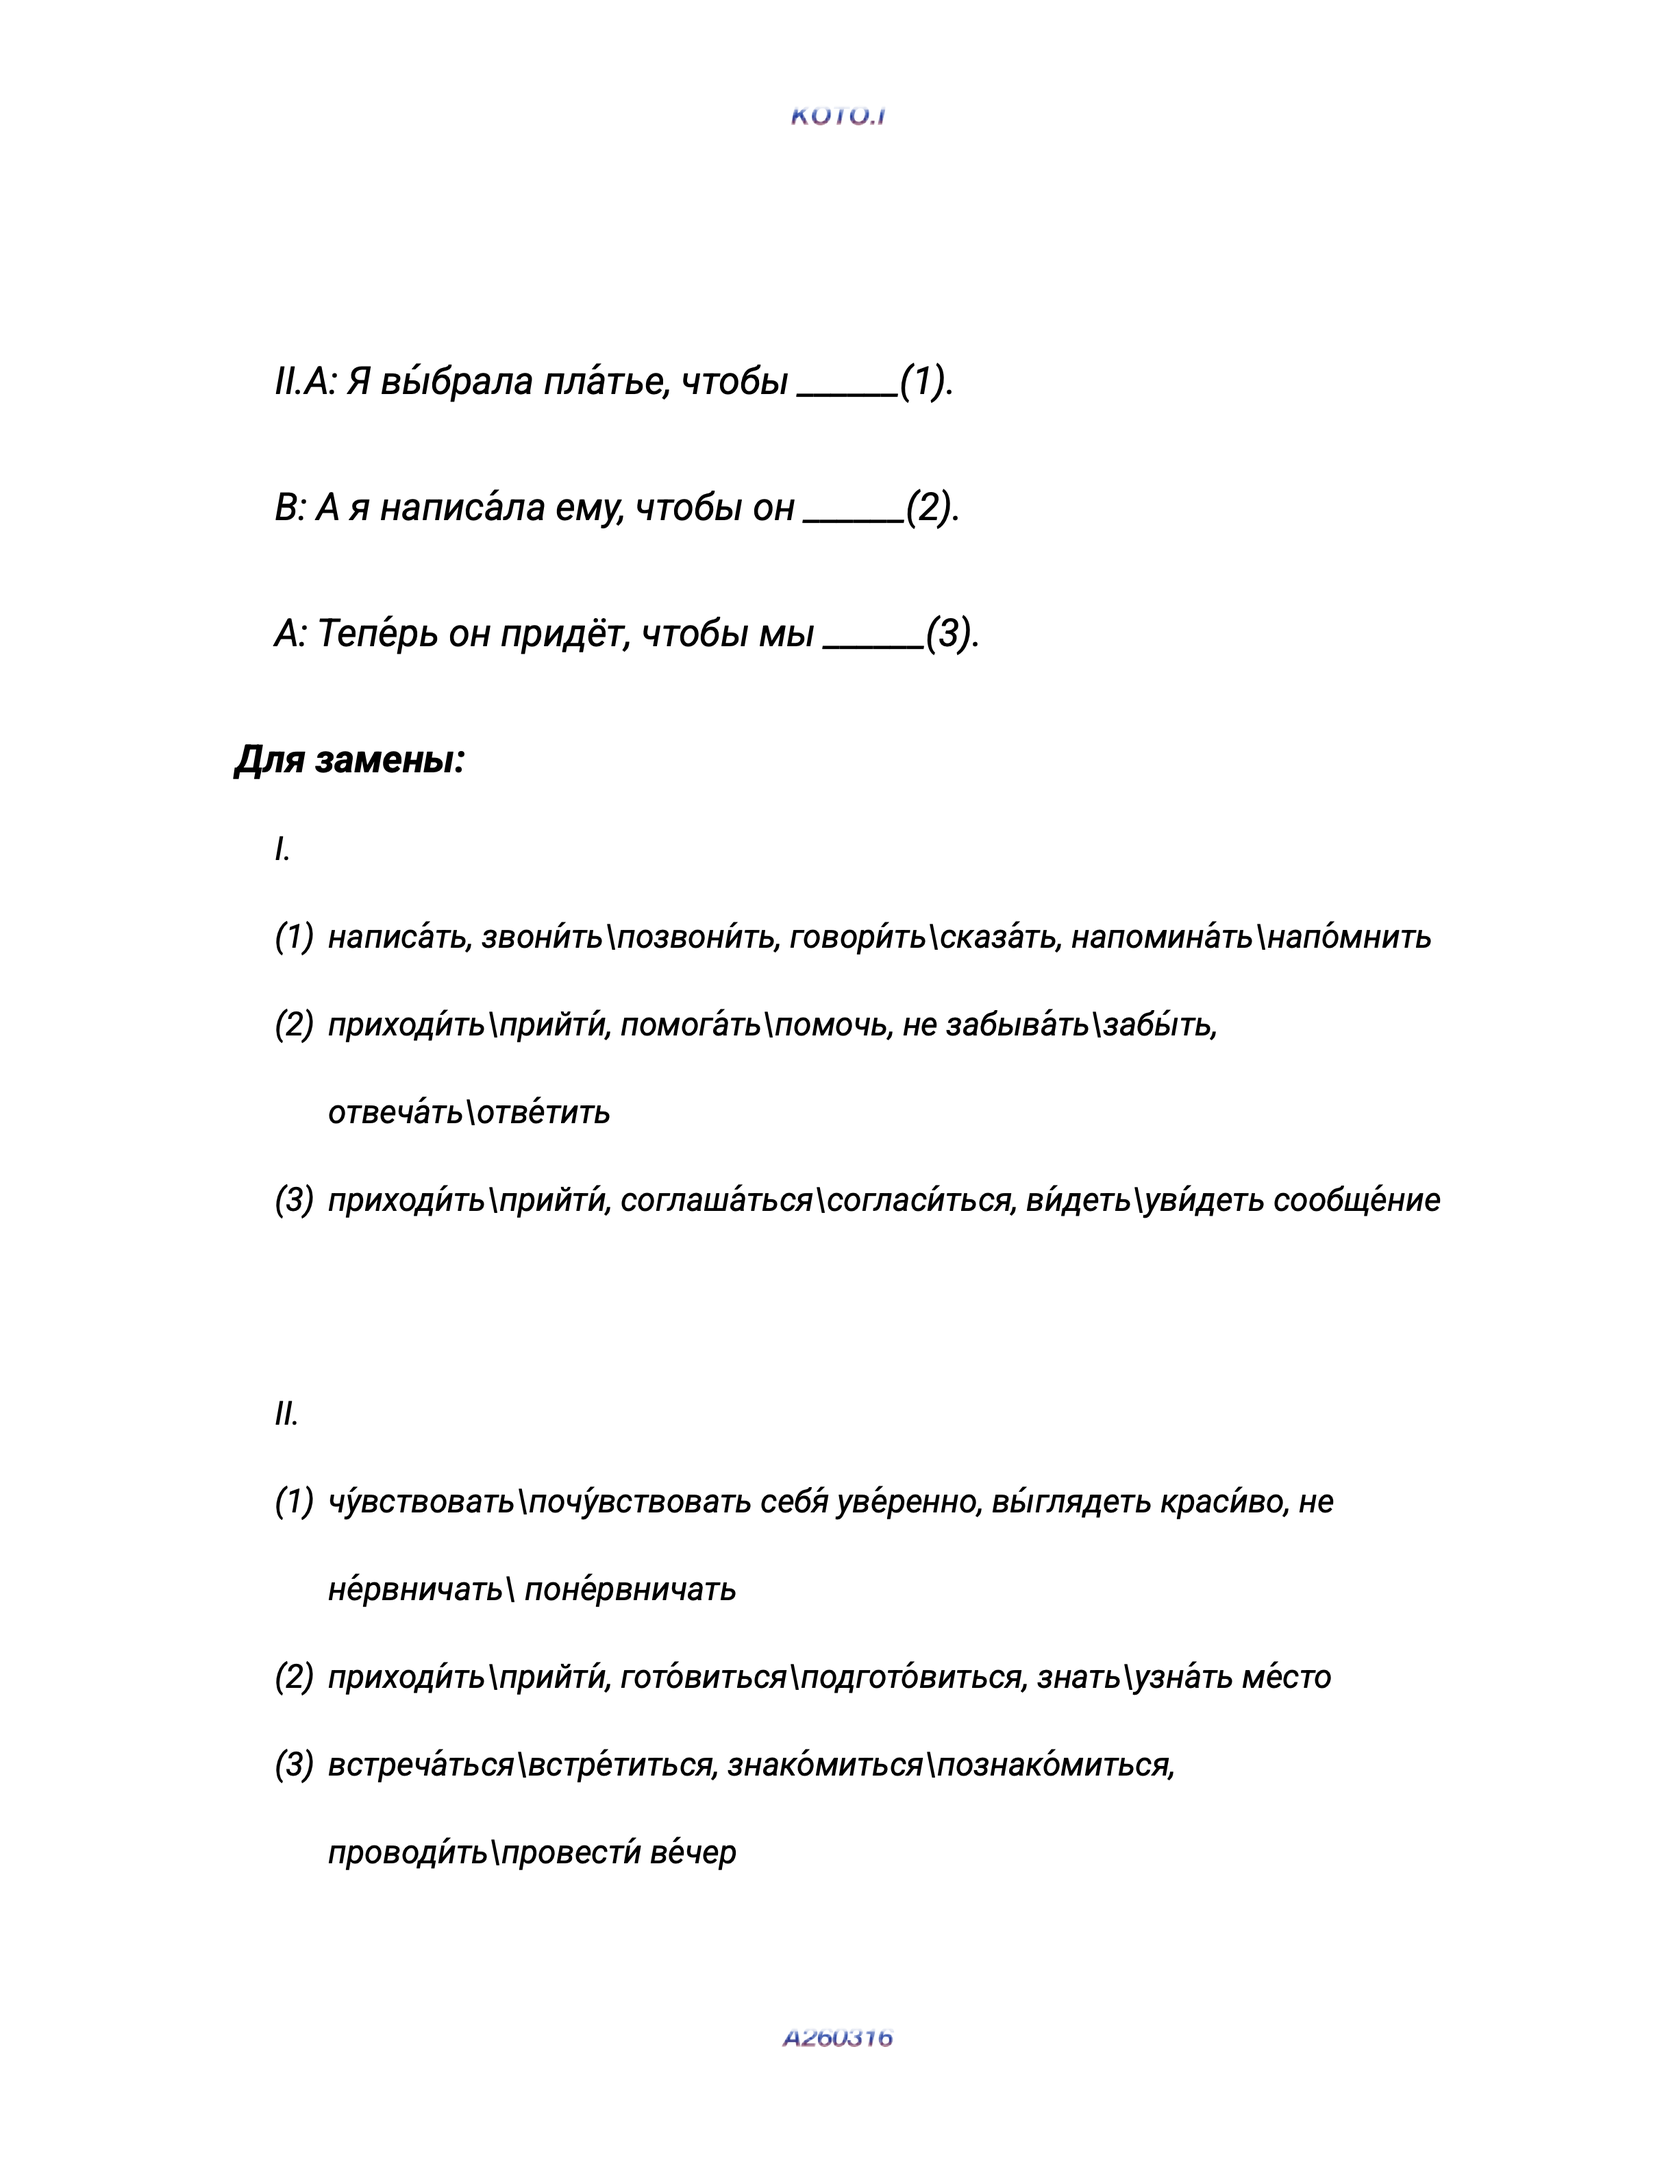
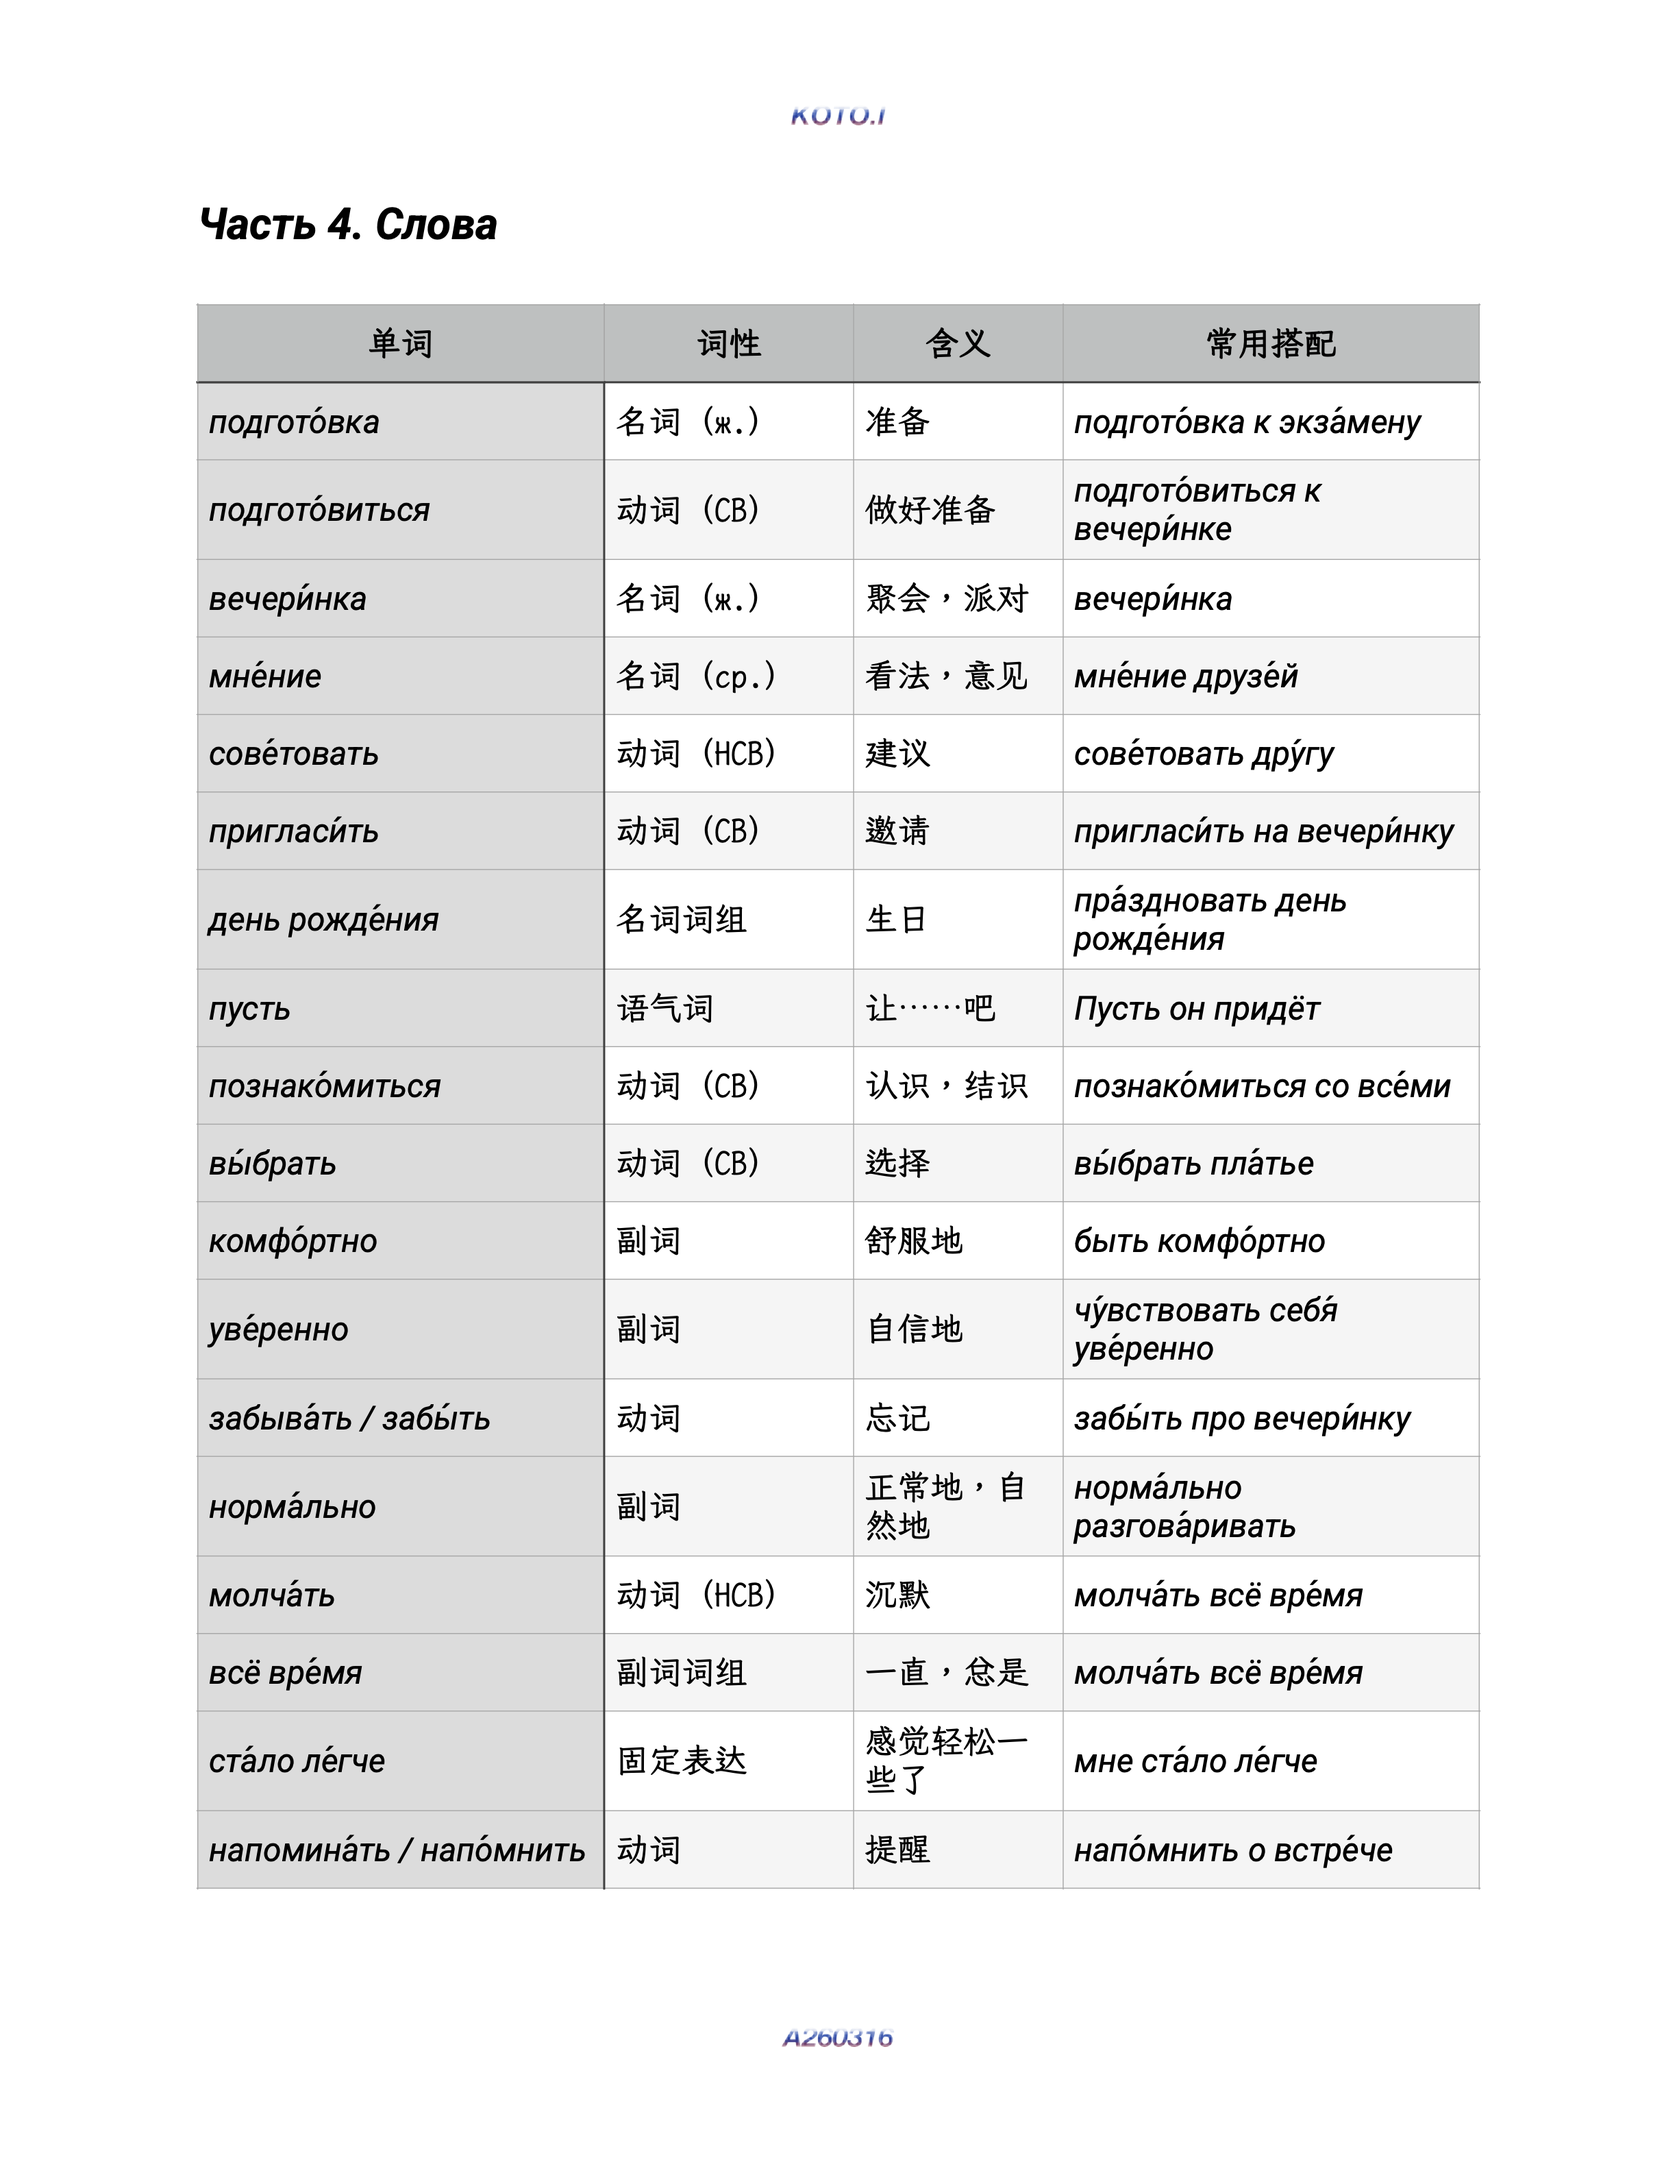
Fix file name

Changed region(s): [[0.0931, 0.0938, 0.9003, 0.875], [0.7451, 0.2812, 0.7761, 0.3125]]

diff --git a/training_materials/Classroom Procedures and Norms.md b/training_materials/Classroom Procedures and Norms.md
@@ -1,0 +1,134 @@
+# 一. 课程材料标准演示
+
+## 1. 课件规范
+
+* **会话课范例 1**：  
+  ![会话课范例1-导入和正文](./images/session_demo1.png)
+  ![会话课范例1-正文](./images/session_demo1.1.png)
+  ![会话课范例1-正文](./images/session_demo1.2.png)
+  ![会话课范例1-单词](./images/session_demo1.3.png)
+
+
+* **会话课范例 2**：  
+  ![会话课范例2-导入和正文](./images/session_demo2.png)
+  ![会话课范例1-正文](./images/session_demo2.1.png)
+  ![会话课范例1-正文](./images/session_demo1.png)
+
+---
+
+## 2. 字体规范
+
+课件材料与板书笔记通用字体：
+* **中文通用字体**：秋水书体
+* **俄文通用字体**：Roboto
+
+---
+
+## 3. 板书规范
+
+* **俄文通用字体**：Roboto
+* **标题字号**：18
+* **正文字号**：14
+
+---
+
+# 二. 授课流程标准
+
+## 1. 课前准备（Before Class）
+
+### 熟悉学生信息
+确认以下内容：
+* 学生姓名
+* 学生水平能力或当前课程进度
+* 学生的课程计划
+* 上节课学习内容
+* 作业完成情况
+* 特殊备注（考试、留学、工作需求等）
+
+### 检查课件与教材
+确认以下内容：
+* 了解本课学习要点和练习重点
+* 对于课程如何开展有一定概念
+* 本节课课件与教案都正确
+* 配套教材准备完成
+* 音频、视频等素材可正常播放
+* 板书内容提前规划
+
+### 设备检查
+线上课程需提前进入教室。检查：
+* 网络连接
+* 摄像头
+* 麦克风
+* 屏幕共享
+* 文件格式
+
+> **建议**：提前 5 分钟完成所有准备工作。
+
+---
+
+## 2. 课中（In Class）
+
+### 建立连接（5%）
+* **目标**：建立课堂氛围，降低学生开口压力。
+* **建议**：问候 ➔ 简单寒暄 ➔ 回顾生活 ➔ 随着话题进入本节课主题。
+
+### 回顾旧知（5%-10%）
+充分了解材料和学生课程情况，随着课程进行，在交流中观察学生是否能够理解并使用，在学生遗忘时能及时提醒和练习。
+
+### 输入新知（30%）
+课程以教材或阅读材料为核心展开。学生首先完成课文朗读，教师重点关注：
+* 发音与语调；
+* 朗读节奏；
+* 重音与停顿；
+* 自然表达。
+
+> 对于学生不理解的词汇、表达或句子，教师应及时提供解释，引导学生结合上下文完成理解。
+
+### 理解确认（25%）
+教师通过针对课文内容的提问，与学生展开互动。提问重点围绕：
+* 是否理解文章内容；
+* 是否能够复述信息；
+* 是否能够解释重点表达；
+* 是否能够回答与课文相关的问题。
+
+> 如课堂中出现上节课学习过的表达方式，教师应观察学生是否能够自然理解和使用，并通过提醒、追问或重复帮助学生完成巩固。  
+> **注意**：语言复习应自然融入交流过程，而非脱离语境进行机械回顾。
+
+### 语言输出（20%）
+教师应根据课程等级选择不同的输出形式：
+
+* **初级课程**：  
+  围绕本课重点表达展开练习。通过替换练习、情景模拟、问答互动等方式，帮助学生理解并能够实际使用新的表达方式。结合教材课后练习及预设任务，引导学生完成语言输出。
+
+* **中高级课程**：  
+  以课文主题为基础，与学生展开延伸交流。鼓励学生表达观点、分享经历、提出问题，并在真实交流过程中运用本课、课外词汇与表达。教师应关注表达能力，而非追求语法零错误。
+
+### 课堂总结（5%-10%）
+课程结束前，教师应帮助学生梳理本节课重点内容，包括：
+* 本课重点词汇；
+* 核心表达方式；
+* 容易出现的问题；
+* 可以尝试使用的新表达。
+
+*(布置任务)*
+
+---
+
+## 3. 课后教学（After Class）
+
+### 课后日常执行
+1. **及时发送课堂板书**
+2. **更新课堂记录**：
+   * 本节课完成内容
+   * 学生掌握情况
+   * 出现的问题与难点
+   * 下节课需要重点关注的内容
+
+### 教学复盘与反馈
+课堂观察人员将结合课堂表现，对教学节奏、互动方式、内容安排等进行梳理，并与教师共同讨论优化方案。
+
+### 作业与课后任务
+我们不采用统一作业制度。是否布置作业、作业形式及完成要求，将结合学生学习目标、学习习惯、课余时间及课程进度，由教师与教研负责人共同决定。
+
+### 课程动态调整
+教师应根据学生学习进度、课堂表现及反馈情况，及时提出调整建议。通过持续记录、持续沟通、持续优化，为学生提供更加符合个人需求的学习方案。
